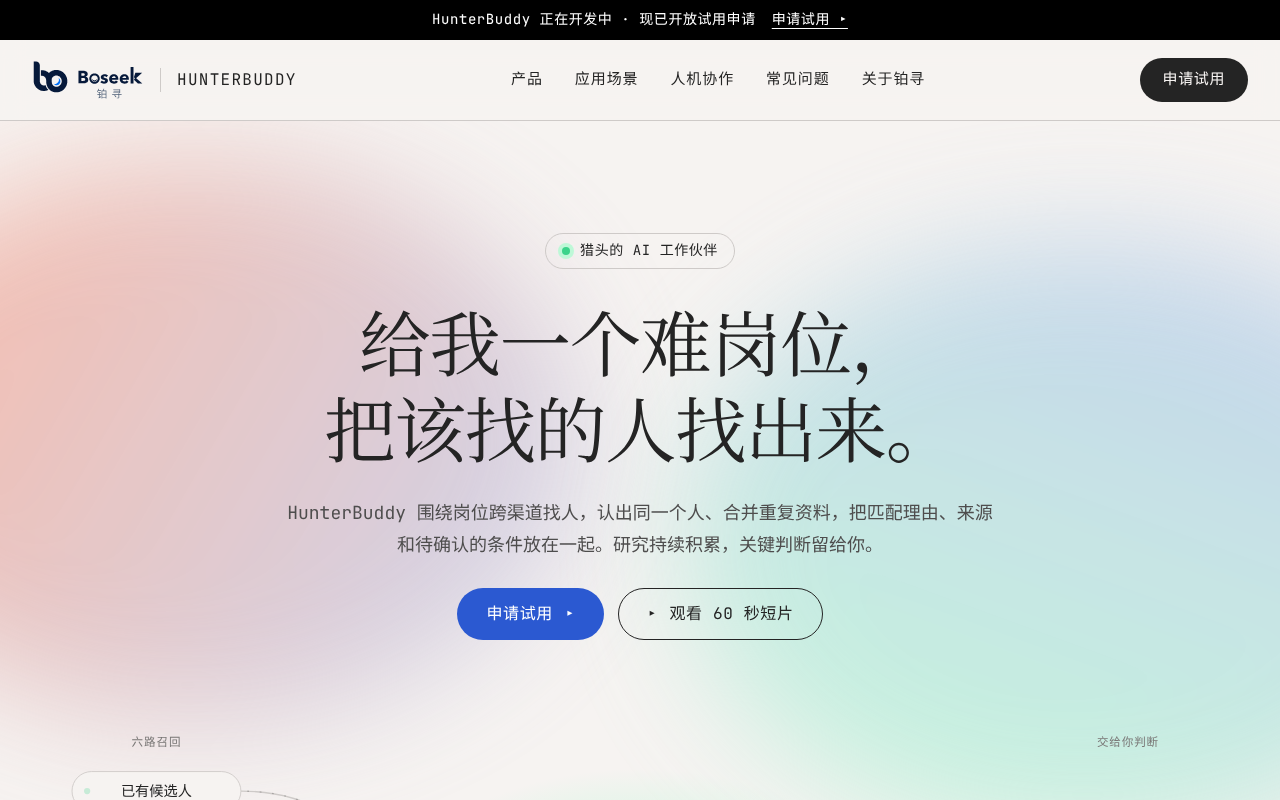
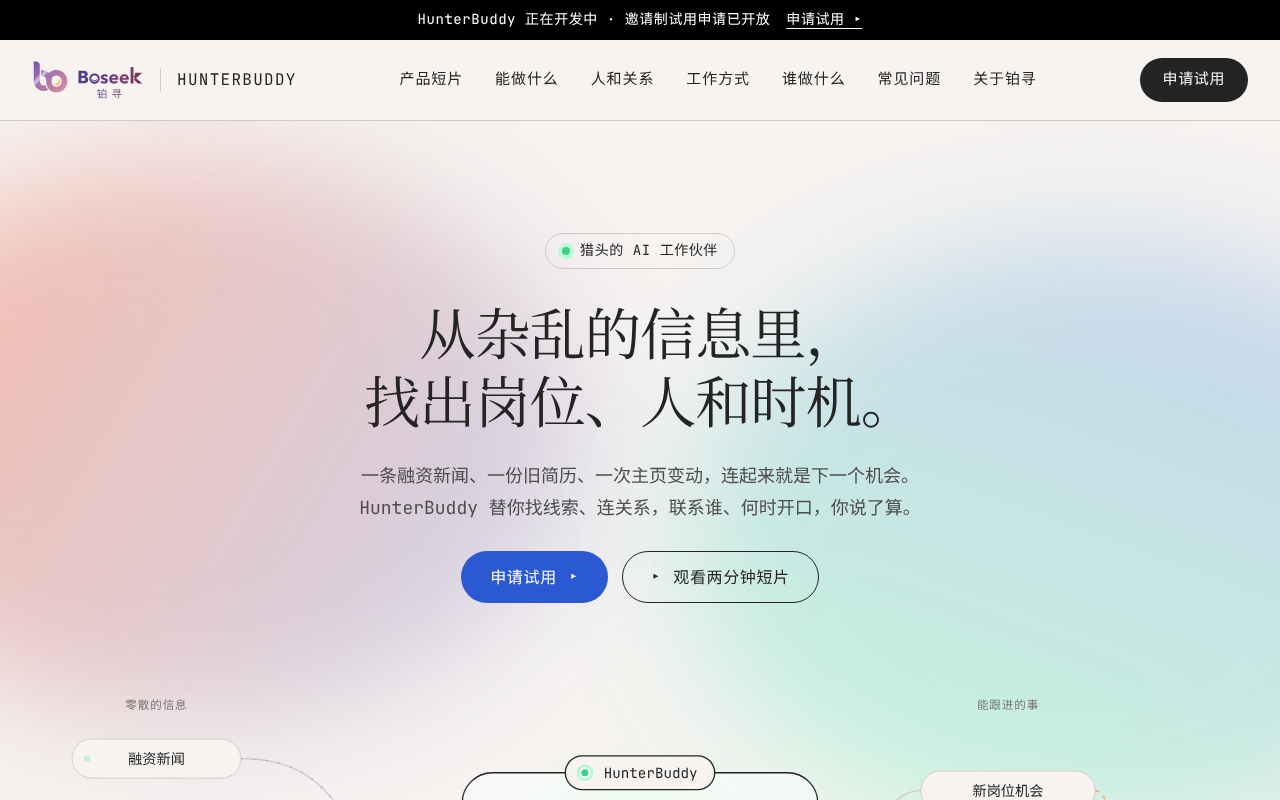
首页目录：第五版缩略图换成当前页面
Claude-Session: https://claude.ai/code/session_01NjZfRSbJ5dBR6i78M69BFX

diff --git a/public/homepages/index.html b/public/homepages/index.html
@@ -116,7 +116,7 @@
           title="在新标签页打开第五版首页"
         >
           <img
-            src="assets/journal.png"
+            src="assets/journal.png?v=20261021"
             alt="第五版技术期刊风首页实际画面"
             width="1280"
             height="800"
